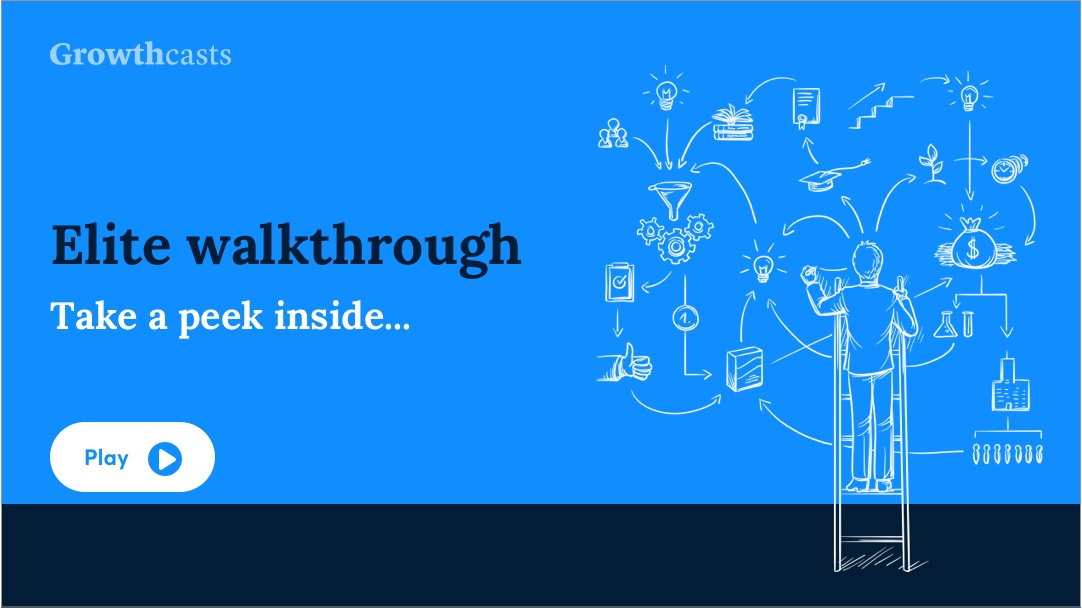
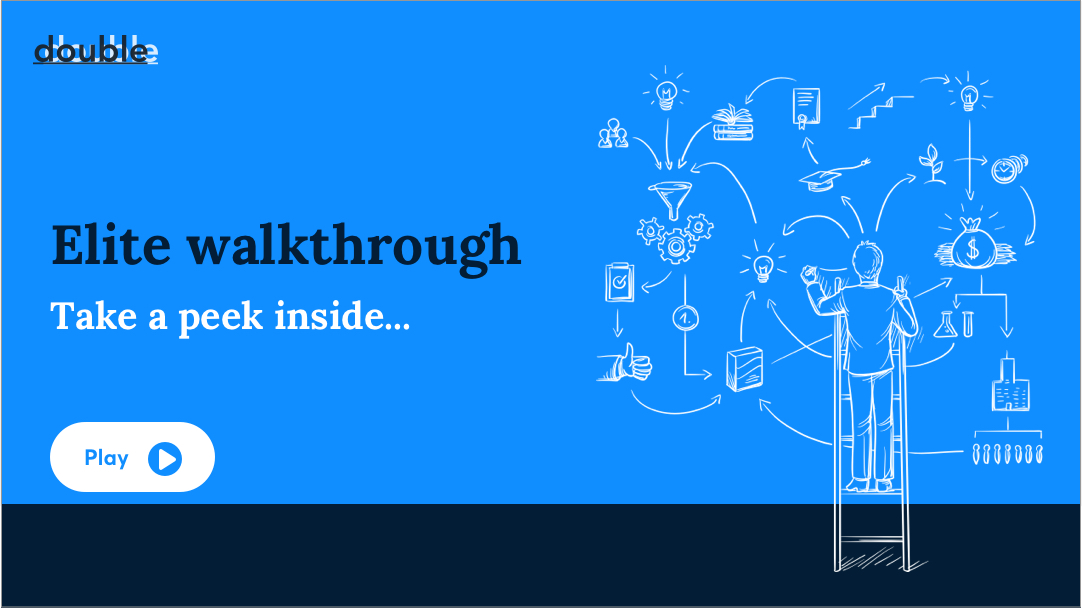
Branding overhaul
All zie growskast is out. Double is in

diff --git a/assets/js/drip.js b/assets/js/drip.js
@@ -451,7 +451,7 @@ window.drip_plinko = function(drip, page) {
   var discount_template_30 = `<div class="container container--xxlarge">
                             <div class="discount__body grid grid--middle grid--gapeless">
                               <div class="grid__column">
-                                <p class="discount__heading heading">30% Discount on Growthcasts Elite</p>
+                                <p class="discount__heading heading">30% Discount on Double Elite</p>
                               </div>
                               <div class="grid__column">
                                 <div class="grid grid--center grid--middle">
@@ -498,7 +498,7 @@ window.drip_plinko = function(drip, page) {
   var discount_template_50 = `<div class="container container--xxlarge">
                             <div class="discount__body grid grid--middle grid--gapeless">
                               <div class="grid__column">
-                                <p class="discount__heading heading">50% Discount on Growthcasts Elite</p>
+                                <p class="discount__heading heading">50% Discount on Double Elite</p>
                               </div>
                               <div class="grid__column">
                                 <div class="grid grid--center grid--middle">
@@ -568,7 +568,7 @@ window.drip_plinko = function(drip, page) {
                             </div>
                           </a>`,
           // Banner
-          banner_header: `<h3 class="heading h3 c--white">Buy Growthcasts Elite</h3>
+          banner_header: `<h3 class="heading h3 c--white">Buy Double Elite</h3>
                           <p class="paragraph">With all the bonuses for just <span class="t--bold">$349</span></p>`,
           banner_button: `<a class="button button--white button--rounded button--shadow" href="https://gum.co/JkIeL">
                             Get it now
@@ -605,7 +605,7 @@ window.drip_plinko = function(drip, page) {
                             </div>
                           </a>`,
           // Banner
-          banner_header: `<h3 class="heading h3 c--white">Buy Growthcasts Elite</h3>
+          banner_header: `<h3 class="heading h3 c--white">Buy Double Elite</h3>
                           <p class="paragraph">With all the bonuses for just <span class="t--bold">$249</span></p>`,
           banner_button: `<a class="button button--white button--rounded button--shadow" href="https://gum.co/tPjm">
                             Get it now
@@ -642,7 +642,7 @@ window.drip_plinko = function(drip, page) {
                             </div>
                           </a>`,
           // Banner
-          banner_header: `<h3 class="heading h3 c--white">Buy Growthcasts Elite</h3>
+          banner_header: `<h3 class="heading h3 c--white">Buy Double Elite</h3>
                           <p class="paragraph">With all the bonuses for just <span class="t--bold">$499</span></p>`,
           banner_button: `<a class="button button--white button--rounded button--shadow" href="https://gum.co/elitepro">
                             Get it now

diff --git a/_layouts/story.html b/_layouts/story.html
@@ -90,7 +90,7 @@
                 <p>I didn’t, but I agreed to write a weekly, step-by-step “note” about it, that I emailed out to her and a handful of other people</p>
                 <p>Every week, more people wanted to get those notes.</p>
                 
-                <blockquote><i>That was like the “MVP” where my email course was born… <br>and <b>where Growthcasts got started!!</b></i></blockquote>
+                <blockquote><i>That was like the “MVP” where my email course was born… <br>and <b>where Double got started!!</b></i></blockquote>
                 <br>
                 <h3 class="section__heading h3">Now we’ve got thousands on our mailing lists, and there’s a course, there’s a consulting team, etc. etc.</h3>
                 <p>All of that, a little unexpectedly… It’s funny how things can blow up!</p>
@@ -107,13 +107,13 @@
                 <p>If it hadn’t been for a TON of people (too many to mention) that helped me along the way, and said <em>“Hey, this thing you’re saying</em> <strong><em>really makes sense…</em></strong><em>”</em></p>
                 <p>…then I’d probably never gotten here!</p>
                 <p><strong>So I’m grateful for all of you.</strong> It’s great to have you around.</p>
-                <p>It’s amazing to be able to offer a free email course, a premium flagship course (Growthcasts Elite), and all these free resources on our blog.</p>
+                <p>It’s amazing to be able to offer a free email course, a premium flagship course (Double Elite), and all these free resources on our blog.</p>
                 <p>It’s been a crazy ride… and a surprising one, too!</p>
                 <br>
                 <h3 class="section__heading h3">If you want to learn more…</h3>
                 <ol>
                     <li>
-                        <p>Here you can read more about our Flagship course —&gt; <a href="/elite"><strong><em>Growthcasts Elite</em></strong></a></p>
+                        <p>Here you can read more about our Flagship course —&gt; <a href="/elite"><strong><em>Double Elite</em></strong></a></p>
                     </li>
                     <li>
                         <p>And here’s a page with <em>“what other people said about us”</em>, and cool <a href="/past-work"><strong><em>success stories from the past</em></strong></a></p>

diff --git a/_layouts/smell-of-success.html b/_layouts/smell-of-success.html
@@ -21,7 +21,7 @@
       </div>
     </div>
 
-    <h1 class="heading heading--subpage bold ta-c">Welcome to Growthcasts!</h1>
+    <h1 class="heading heading--subpage bold ta-c">Welcome to Double!</h1>
     <h2 class="ta-c">Check your mail for the first story!<br><br>↓</h2>
   </div>
 </header>
@@ -34,7 +34,7 @@
                 But anyway…. The solution is something that I stumbled on mostly by accident. It’s about building a systematic ‘growth loop'. Sounds cryptic, I know. <br>That’s because it’s an entirely different way to approach your marketing.
                 If you want to find out more about that, there's two things I need you to do:<br>
                 <b>1. Check your inbox</b> for the first email lesson (could be in spam)<br>
-                <b>2. Add my emailadres</b> (pieter@growthcasts.co) to your contacts, so you will receive all the other lessons!<br><br>
+                <b>2. Add my emailadres</b> (pieter@double.com) to your contacts, so you will receive all the other lessons!<br><br>
                 I promise it’s gonna be different than you expect, but fun and extremely valuable
                 <br><br><b>Now, let’s go and read!</b><br>
                 <i>Cheers</i><br>

diff --git a/_layouts/pages/webinar.html b/_layouts/pages/webinar.html
@@ -27,12 +27,12 @@
       <li>Learn which 2 growth engines are most important (and why)</li>
       <li>Learn how you create 'Growth Loops', and how that generates exponential <br>or viral growth  --  this is the essence to growth marketing!!</li>
       <li>Pointers on how to move forward after the email course</li>
-      <li>A special deal (<i>instructions in the webinar</i>), to get Growthcasts Elite at a<br>steep discount... if you're ready to take immediate action.</li>
+      <li>A special deal (<i>instructions in the webinar</i>), to get Double Elite at a<br>steep discount... if you're ready to take immediate action.</li>
     </ul>
     <p> Thanks for watching, and happy growing!<br><br>
         Cheers,<br><br>
         <b>-Pieter</b><br><br>
-        <i>P.S. any questions? Hit me up on pieter@growthcasts.co, and I'll get back to you ASAP.</i>
+        <i>P.S. any questions? Hit me up on pieter@Double-agency.com, and I'll get back to you ASAP.</i>
       </p>
           </div>
             </div>

diff --git a/_layouts/pages/home.html b/_layouts/pages/home.html
@@ -36,7 +36,7 @@
 
                 <li><b>For Radiantly Alive</b> we quadrupled annual top-line revenue compared to any of the 5 years before… <i> within just 8 weeks</i></li>
         
-                <li><b><span style="background-color:#5DB1FE;">Here at Growthcasts</span></b> we’ve educated thousands of entrepreneurs about growth marketing & user acquisition… <i>and help them make the change they want to see</i></li>
+                <li><b><span style="background-color:#5DB1FE;">Here at Double</span></b> we’ve educated thousands of entrepreneurs about growth marketing & user acquisition… <i>and help them make the change they want to see</i></li>
               </ul>
               
               <p>Of course that’s not the only stuff we do, but it gives a taste. Obviously the last bullet is most important here, because <i><b>that’s this very website!</b></i></p>

diff --git a/_layouts/past-work.html b/_layouts/past-work.html
@@ -114,7 +114,7 @@
 
                 <p>If you’d like to know more about our flagship product <strong>“Growthcasts Elite”</strong>, then <a href="/elite"> check it out</a>, sign up for <a href="/home#the-emailcourse">the email course</a> to know when it's open for sales again</p>
 
-                <p>If you have a business with <strong>$25k or more</strong> in marketing budget, I might be able to offer bespoke services to you. Contact my colleague to work with me (<a href="mailto:caspar@growthcasts.co">click here</a>, send an email to Caspar).</p>
+                <p>If you have a business with <strong>$25k or more</strong> in marketing budget, I might be able to offer bespoke services to you. Contact my colleague to work with me (<a href="mailto:caspar@Double-agency.com">click here</a>, send an email to Caspar).</p>
 
                 <p>Speak soon,</p>
 

diff --git a/_layouts/pages/consulting.html b/_layouts/pages/consulting.html
@@ -33,7 +33,7 @@
               <br><br>
               Unlike the typical agency, we’re not <b><i>advisors</i></b>. We’re <b><i>executors.</i></b> We don’t like lengthy sales decks and extensive price negotiations. So we’ve bundled our services in a few neath packages (below), so you can pick whatever suits you.
               <br><br>
-              <b>Then <a href="mailto:pieter@growthcasts.co">send us an email</a>, and we’ll figure out how to get started…</b>
+              <b>Then <a href="mailto:pieter@Double-agency.com">send us an email</a>, and we’ll figure out how to get started…</b>
               </p>
             </div>
           </div>

diff --git a/_layouts/takestep.html b/_layouts/takestep.html
@@ -35,7 +35,7 @@
                     <div class="grid__column">
                       <div class="form-group">
                         <label class="form-group__label" for="email">Email</label>
-                        <input class="form-group__input" type="email" name="fields[email]" id="email" placeholder="pieter@growthcasts.co">
+                        <input class="form-group__input" type="email" name="fields[email]" id="email" placeholder="pieter@double-agency.com">
                       </div>
                     </div>
 

diff --git a/_includes/welcome-to-elite-header.html b/_includes/welcome-to-elite-header.html
@@ -16,7 +16,7 @@
       </div>
     </div>
 
-    <h2 class="heading heading--subpage ta-c"><b>Welcome friend,<br>you're now part of the Growthcasts Elite!</b></h2>
+    <h2 class="heading heading--subpage ta-c"><b>Welcome friend,<br>you're now part of the Double Elite!</b></h2>
     <button class="menu-button menu-button--gray menu-button--home menu-button--top button jsMenuBtn">
       <span class="menu-button__item"></span>
       <span class="menu-button__item"></span>

diff --git a/_includes/new-web/footer.html b/_includes/new-web/footer.html
@@ -22,7 +22,7 @@
 
             <a href="#" class="text-light d-flex align-items-center mb-4">
                 <img width="72" src="/assets/images/new-web/Blogpic_2.png" />
-                <p class="mb-0 ml-3">You can’t do marketing if you don’t know the LTV</p>
+                <p class="mb-0 ml-3">You can’t do marketing without the LTV</p>
             </a>
 
             <a href="#" class="text-light d-flex align-items-center mb-4">

diff --git a/_includes/about-header.html b/_includes/about-header.html
@@ -16,7 +16,7 @@
       </div>
     </div>
 
-    <h1 class="heading ta-c" style="margin-top: 5rem; margin-bottom: -3rem;" ><b>The Story of Growthcasts</b></h1>
+    <h1 class="heading ta-c" style="margin-top: 5rem; margin-bottom: -3rem;" ><b>The Story of Double</b></h1>
 
     <button class="menu-button menu-button--gray menu-button--home menu-button--top button jsMenuBtn">
       <span class="menu-button__item"></span>

diff --git a/_layouts/pages/new-home.html b/_layouts/pages/new-home.html
@@ -149,7 +149,7 @@
             </div>
 
             <div class="text-center">
-              <p>No matter if we work on detailed strategie sessions or 'in the trenches' execution, hard work combines best with a portion of fun.</p>
+              <p>If we work on detailed strategie sessions or 'in the trenches' execution, hard work combines best with a good portion of fun.</p>
             </div>
 
           </div>
